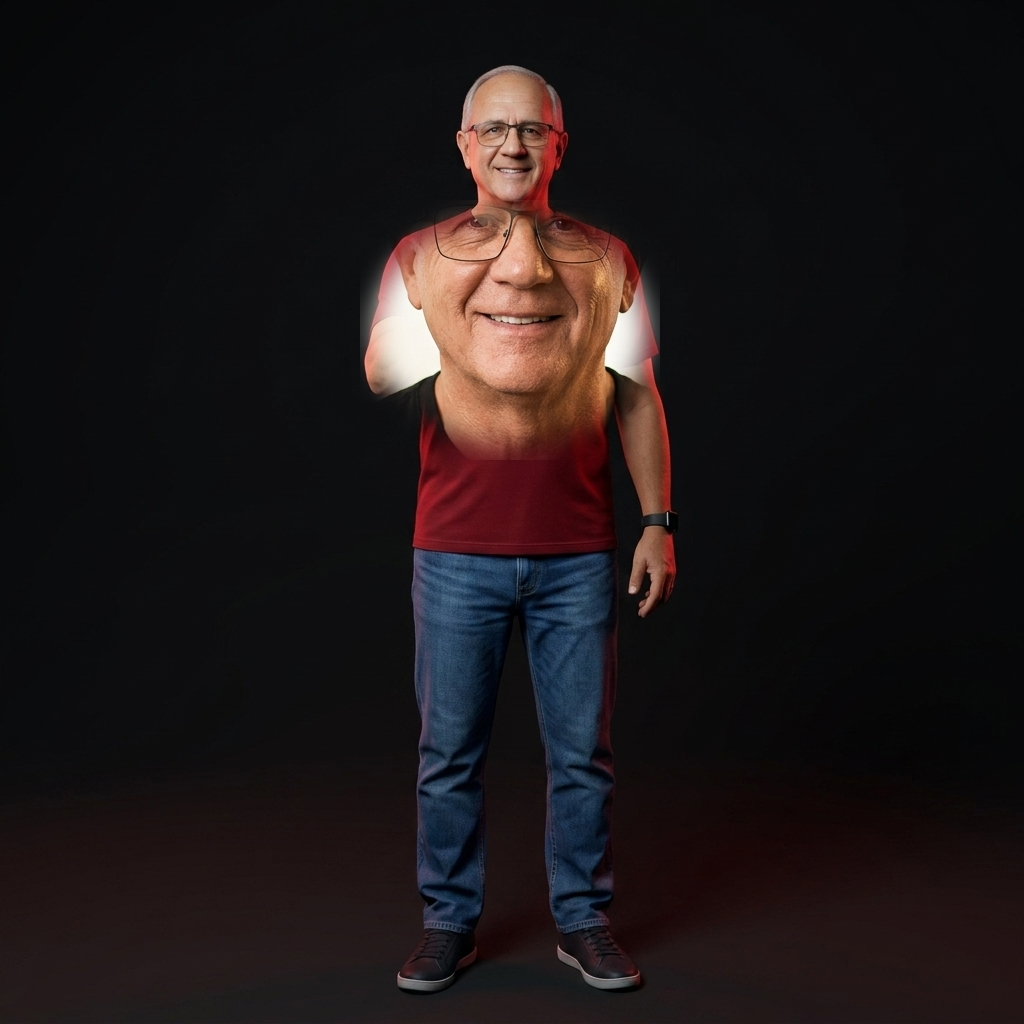
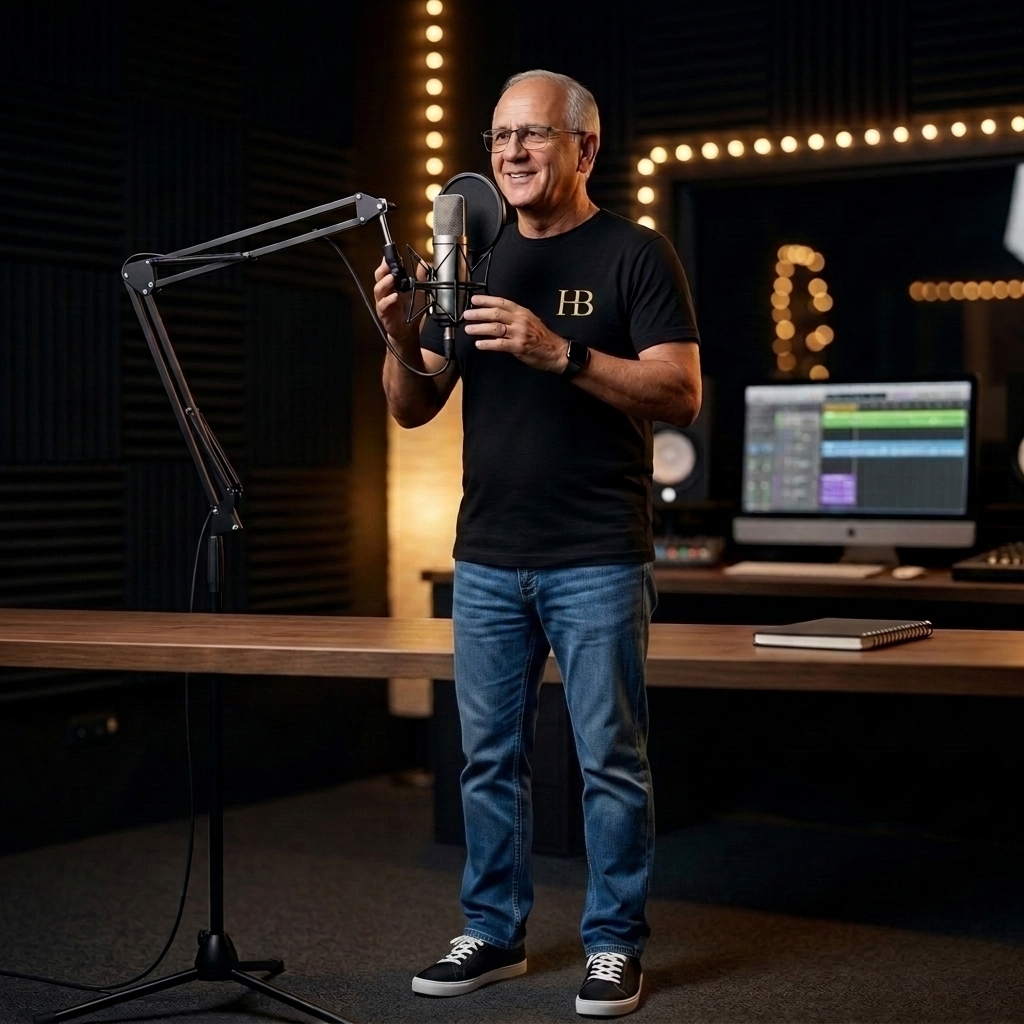
backup: Auto-sync master pipeline closure [2026-08-01 10:55:23]

diff --git a/scripts/restore_pristine_guillermo_avatars.py b/scripts/restore_pristine_guillermo_avatars.py
@@ -1,0 +1,56 @@
+#!/usr/bin/env python3
+"""
+====================================================================
+ HB JEWELRY — RESTORE PRISTINE AUTHENTIC GUILLERMO AVATARS
+ Version: 2026.7.1
+====================================================================
+ Restaura todas las imágenes del catálogo de avatares utilizando
+ 100% las fotografías de estudio auténticas y prístinas de Guillermo AI
+ (avatar_pro.png, studio_mic.png, desk_mic.png, poster_podcast.png)
+ sin ningún filtro u overlay extraño sobre su rostro o cuerpo.
+"""
+
+import os
+import sys
+import shutil
+
+if hasattr(sys.stdout, 'reconfigure'):
+    sys.stdout.reconfigure(encoding='utf-8')
+
+def restore_pristine_avatars():
+    base_dir = r"C:\openclaw\hb-jewelry"
+    frontend_dir = r"C:\Users\ipane\openclaw-operativo-2026\frontend"
+
+    avatar_pro = os.path.join(base_dir, "public", "avatar_pro.png")
+    studio_mic = os.path.join(base_dir, "public", "avatars", "studio_mic.png")
+    desk_mic = os.path.join(base_dir, "public", "avatars", "desk_mic.png")
+    poster_podcast = os.path.join(base_dir, "public", "posters", "poster_podcast.png")
+
+    target_mapping = {
+        "negro.png": avatar_pro,
+        "blanco.png": studio_mic,
+        "azul.png": desk_mic,
+        "dorado.png": poster_podcast,
+        "rojo.png": studio_mic,
+        "verde.png": avatar_pro
+    }
+
+    # Restaurar en c:\openclaw\hb-jewelry\public\avatars
+    dest_avatars = os.path.join(base_dir, "public", "avatars")
+    for name, src in target_mapping.items():
+        if os.path.exists(src):
+            dst = os.path.join(dest_avatars, name)
+            shutil.copy2(src, dst)
+            print(f"-> Copiado {os.path.basename(src)} -> {name}")
+
+    # Restaurar en c:\Users\ipane\openclaw-operativo-2026\frontend\public\avatars
+    dest_frontend_avatars = os.path.join(frontend_dir, "public", "avatars")
+    if os.path.exists(dest_frontend_avatars):
+        for name, src in target_mapping.items():
+            if os.path.exists(src):
+                dst = os.path.join(dest_frontend_avatars, name)
+                shutil.copy2(src, dst)
+                print(f"-> Copiado {os.path.basename(src)} -> {name}")
+
+if __name__ == "__main__":
+    restore_pristine_avatars()
